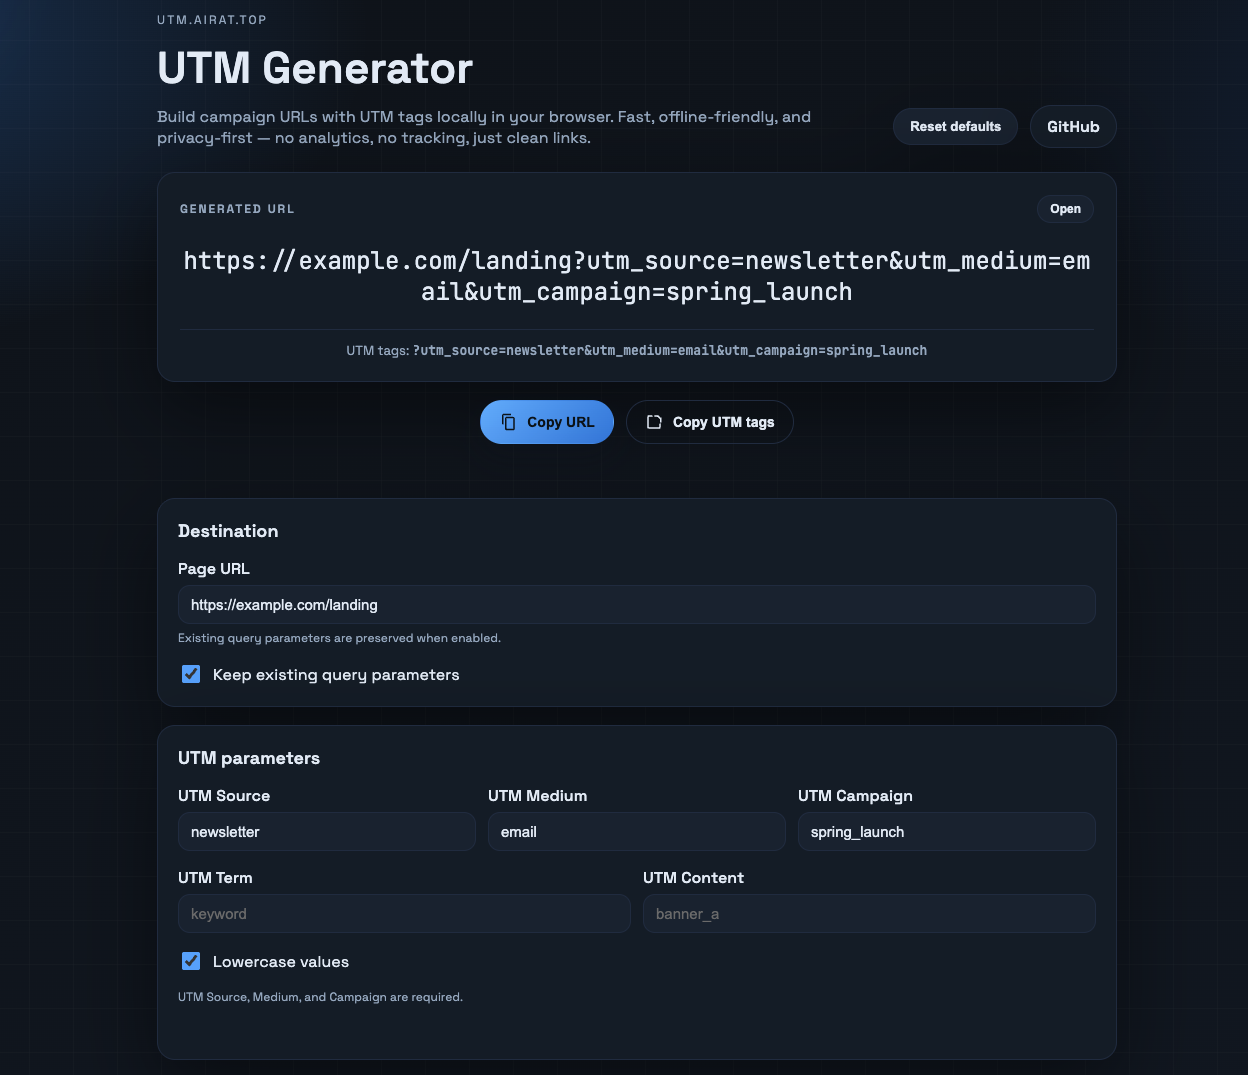
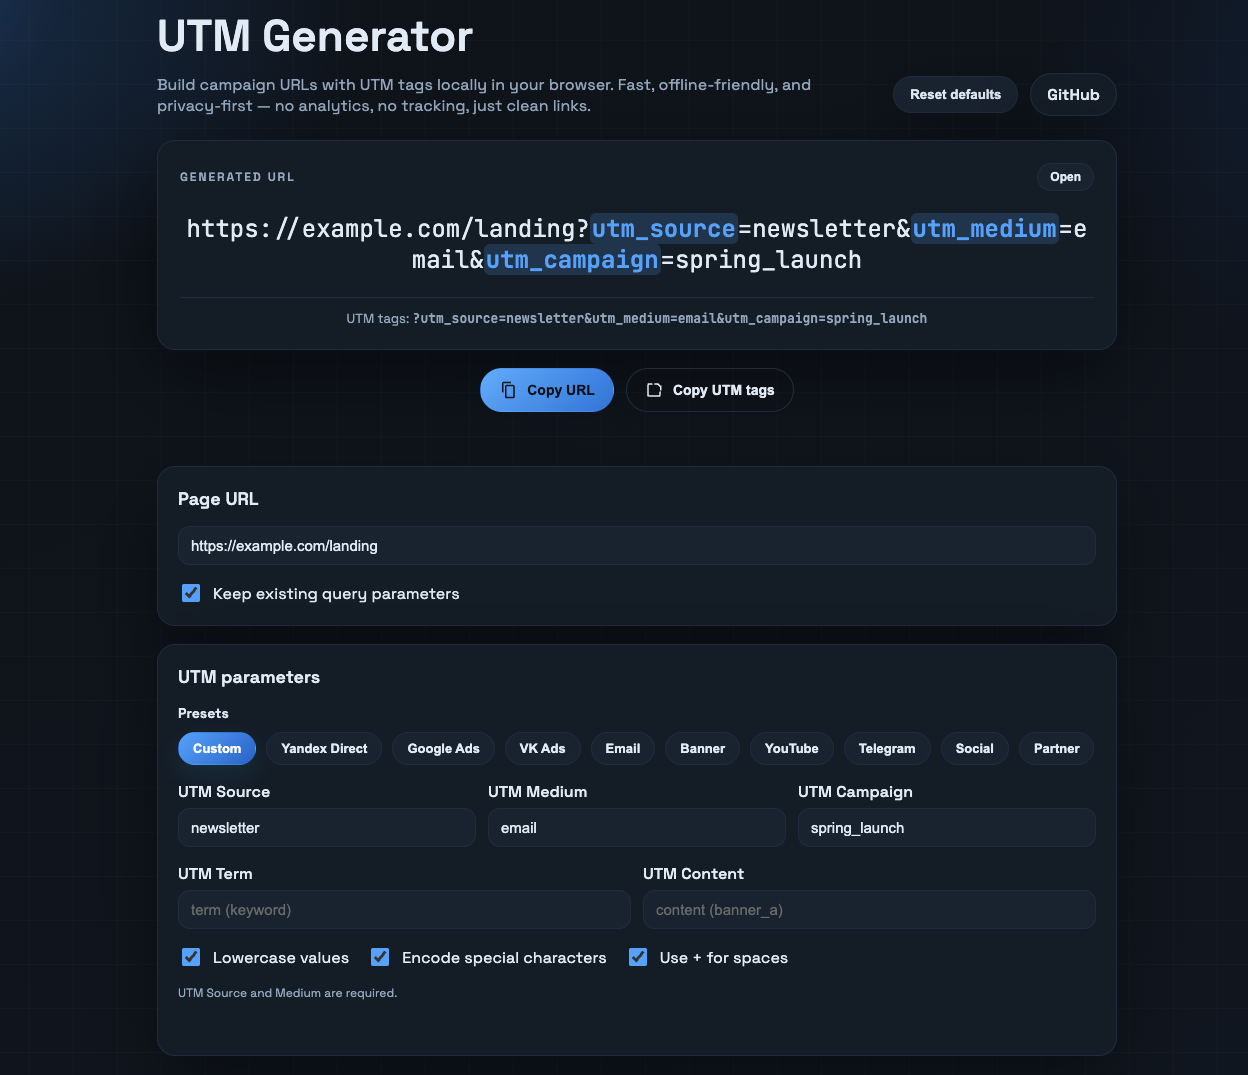
Add highlight

diff --git a/app.js b/app.js
@@ -17,6 +17,7 @@ const ui = {
   utmContent: document.querySelector("#utmContent"),
   lowercaseValues: document.querySelector("#lowercaseValues"),
   encodeValues: document.querySelector("#encodeValues"),
+  spaceAsPlus: document.querySelector("#spaceAsPlus"),
   presetButtons: Array.from(document.querySelectorAll(".preset-button")),
 };
 
@@ -36,6 +37,7 @@ const DEFAULTS = {
   keepQuery: true,
   lowercase: true,
   encode: true,
+  spaceAsPlus: true,
   preset: "custom",
 };
 
@@ -194,6 +196,7 @@ function normalizeSettings(raw) {
     keepQuery: typeof safe.keepQuery === "boolean" ? safe.keepQuery : DEFAULTS.keepQuery,
     lowercase: typeof safe.lowercase === "boolean" ? safe.lowercase : DEFAULTS.lowercase,
     encode: typeof safe.encode === "boolean" ? safe.encode : DEFAULTS.encode,
+    spaceAsPlus: typeof safe.spaceAsPlus === "boolean" ? safe.spaceAsPlus : DEFAULTS.spaceAsPlus,
     preset: presetKey,
   };
 }
@@ -230,6 +233,7 @@ function applySettings(settings) {
   ui.keepQuery.checked = normalized.keepQuery;
   ui.lowercaseValues.checked = normalized.lowercase;
   ui.encodeValues.checked = normalized.encode;
+  ui.spaceAsPlus.checked = normalized.spaceAsPlus;
   setActivePreset(normalized.preset);
 }
 
@@ -244,6 +248,7 @@ function getCurrentSettings() {
     keepQuery: ui.keepQuery.checked,
     lowercase: ui.lowercaseValues.checked,
     encode: ui.encodeValues.checked,
+    spaceAsPlus: ui.spaceAsPlus.checked,
     preset: getActivePreset(),
   };
 }
@@ -318,6 +323,56 @@ function safeDecodeURIComponent(value) {
     return decodeURIComponent(value);
   } catch (error) {
     return value;
+  }
+}
+
+function applySpaceEncodingToQuery(value, usePlus) {
+  if (!value || usePlus) {
+    return value;
+  }
+  return value.replace(/\+/g, "%20");
+}
+
+function applySpaceEncodingToUrl(value, usePlus) {
+  if (!value || usePlus) {
+    return value;
+  }
+  const hashIndex = value.indexOf("#");
+  const hash = hashIndex >= 0 ? value.slice(hashIndex) : "";
+  const base = hashIndex >= 0 ? value.slice(0, hashIndex) : value;
+  const queryIndex = base.indexOf("?");
+  if (queryIndex === -1) {
+    return value;
+  }
+  const path = base.slice(0, queryIndex);
+  const query = base.slice(queryIndex + 1);
+  return `${path}?${applySpaceEncodingToQuery(query, false)}${hash}`;
+}
+
+function renderHighlightedUrl(text) {
+  ui.output.textContent = "";
+  if (!text) {
+    return;
+  }
+  const regex = /utm_[a-z0-9_]+(?==)/gi;
+  let lastIndex = 0;
+  let match;
+
+  while ((match = regex.exec(text)) !== null) {
+    const before = text.slice(lastIndex, match.index);
+    if (before) {
+      ui.output.append(document.createTextNode(before));
+    }
+    const span = document.createElement("span");
+    span.className = "utm-highlight";
+    span.textContent = match[0];
+    ui.output.append(span);
+    lastIndex = match.index + match[0].length;
+  }
+
+  const rest = text.slice(lastIndex);
+  if (rest) {
+    ui.output.append(document.createTextNode(rest));
   }
 }
 
@@ -418,8 +473,11 @@ function updateOutputFit(value) {
 function updateOutput() {
   const { fullUrl, utmQuery, error, missing } = buildUtmUrl();
   const encode = ui.encodeValues.checked;
-  const displayUrl = encode ? fullUrl : safeDecodeURI(fullUrl);
-  const displayQuery = encode ? utmQuery : safeDecodeURIComponent(utmQuery);
+  const usePlus = ui.spaceAsPlus.checked;
+  const encodedUrl = applySpaceEncodingToUrl(fullUrl, usePlus);
+  const encodedQuery = applySpaceEncodingToQuery(utmQuery, usePlus);
+  const displayUrl = encode ? encodedUrl : safeDecodeURI(fullUrl);
+  const displayQuery = encode ? encodedQuery : safeDecodeURIComponent(utmQuery);
   const hasRequired = missing.length === 0;
 
   let errorMessage = error;
@@ -428,7 +486,7 @@ function updateOutput() {
   }
 
   ui.error.textContent = errorMessage;
-  ui.output.textContent = displayUrl;
+  renderHighlightedUrl(displayUrl);
   ui.outputQuery.textContent = displayQuery ? `?${displayQuery}` : "-";
 
   updateOutputFit(displayUrl);
@@ -447,7 +505,8 @@ function handleCopyUrl() {
     return;
   }
   const encode = ui.encodeValues.checked;
-  const output = encode ? fullUrl : safeDecodeURI(fullUrl);
+  const usePlus = ui.spaceAsPlus.checked;
+  const output = encode ? applySpaceEncodingToUrl(fullUrl, usePlus) : safeDecodeURI(fullUrl);
   copyText(output, ui.status, "URL");
 }
 
@@ -462,7 +521,8 @@ function handleCopyParams() {
     return;
   }
   const encode = ui.encodeValues.checked;
-  const output = encode ? utmQuery : safeDecodeURIComponent(utmQuery);
+  const usePlus = ui.spaceAsPlus.checked;
+  const output = encode ? applySpaceEncodingToQuery(utmQuery, usePlus) : safeDecodeURIComponent(utmQuery);
   copyText(`?${output}`, ui.status, "UTM tags");
 }
 
@@ -472,7 +532,9 @@ function handleOpenUrl() {
     setStatus(ui.status, "Fill in the required fields first.");
     return;
   }
-  window.open(fullUrl, "_blank", "noopener,noreferrer");
+  const usePlus = ui.spaceAsPlus.checked;
+  const output = applySpaceEncodingToUrl(fullUrl, usePlus);
+  window.open(output, "_blank", "noopener,noreferrer");
 }
 
 function resetDefaults() {
@@ -507,6 +569,7 @@ function bindEvents() {
     ui.keepQuery,
     ui.lowercaseValues,
     ui.encodeValues,
+    ui.spaceAsPlus,
   ];
 
   inputs.forEach((input) => {

diff --git a/index.html b/index.html
@@ -210,6 +210,10 @@
               <input type="checkbox" id="encodeValues" checked />
               <span>Encode special characters</span>
             </label>
+            <label class="toggle">
+              <input type="checkbox" id="spaceAsPlus" checked />
+              <span>Use + for spaces</span>
+            </label>
           </div>
           <small>UTM Source and Medium are required.</small>
           <p class="status" id="utmError" role="status"></p>

diff --git a/styles.css b/styles.css
@@ -411,6 +411,20 @@ h1 {
   overflow-wrap: anywhere;
 }
 
+.utm-highlight {
+  color: var(--accent);
+  font-weight: 600;
+  background: rgba(58, 134, 255, 0.16);
+  padding: 0 2px;
+  border-radius: 6px;
+}
+
+@media (prefers-color-scheme: dark) {
+  .utm-highlight {
+    background: rgba(97, 168, 255, 0.18);
+  }
+}
+
 .card {
   background: var(--surface);
   border: 1px solid var(--border);
